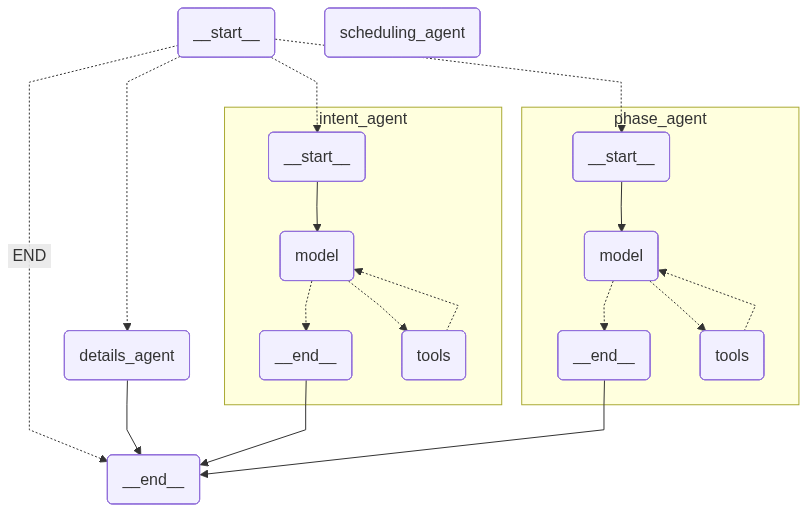
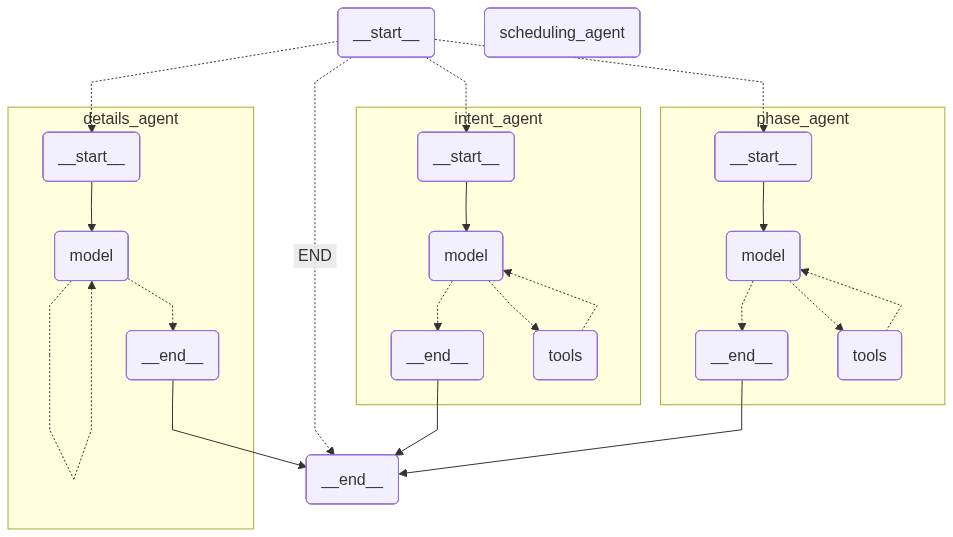
get structured output from details node

diff --git a/src/model.py b/src/model.py
@@ -7,9 +7,9 @@ import uuid
 from pydantic.main import BaseModel
 from langgraph.types import Command, interrupt
 from enum import Enum
-from typing import Sequence, Annotated, TypedDict, Literal
+from typing import Sequence, Annotated, TypedDict, Literal, List
 from dotenv import load_dotenv
-from langchain_core.messages import BaseMessage, HumanMessage, AIMessage
+from langchain_core.messages import BaseMessage, HumanMessage, AIMessage, SystemMessage
 from langchain_openai import ChatOpenAI
 from pydantic import SecretStr
 from langchain_core.prompts import ChatPromptTemplate, MessagesPlaceholder
@@ -86,6 +86,65 @@ class ConstructionIntent(BaseModel):
             summary += f"\nBudget: {self.budget_range}"
         return summary
 
+
+class Dependency(BaseModel):
+    """Represents a task dependency with relationship and lag"""
+
+    previous_task: str = Field(..., description="Name of the previous task")
+    relationship: str = Field(
+        ..., description="Relationship type (e.g., 'FS', 'SS', 'FF', 'SF')"
+    )
+    lag_days: int = Field(default=0, description="Lag time in days")
+
+    @classmethod
+    def from_list(cls, dep_list: List) -> "Dependency":
+        """Create from [previous_task, relationship, lag] format"""
+        return cls(
+            previous_task=dep_list[0],
+            relationship=dep_list[1],
+            lag_days=dep_list[2] if len(dep_list) > 2 else 0,
+        )
+
+
+class Resource(BaseModel):
+    """Represents a required resource"""
+
+    name: str = Field(..., description="Resource name")
+    amount: float = Field(..., description="Required amount/quantity")
+
+    @classmethod
+    def from_list(cls, res_list: List) -> "Resource":
+        """Create from [resource_name, amount] format"""
+        return cls(name=res_list[0], amount=res_list[1])
+
+
+class Task(BaseModel):
+    """Represents a single task in the project schedule"""
+
+    name: str = Field(..., description="Task name")
+    duration_days: int = Field(..., gt=0, description="Duration in days")
+    dependencies: List[List] = Field(
+        default_factory=list,
+        description="List of dependencies as [previous_task, relationship, lag]",
+    )
+    resources: List[List] = Field(
+        default_factory=list, description="List of resources as [resource_name, amount]"
+    )
+
+    def get_dependencies(self) -> List[Dependency]:
+        """Parse dependencies into Dependency objects"""
+        return [Dependency.from_list(dep) for dep in self.dependencies]
+
+    def get_resources(self) -> List[Resource]:
+        """Parse resources into Resource objects"""
+        return [Resource.from_list(res) for res in self.resources]
+
+
+class TaskList(BaseModel):
+    """Collection of tasks for a project phase"""
+
+    tasks: List[Task] = Field(..., description="List of tasks")
+    
 
 class AgenticSchedulerModel:
 
@@ -318,7 +377,7 @@ class AgenticSchedulerModel:
             model=self.llm,
         )
 
-        def phase_node(state: AgentState) -> AgentState | Command:
+        def phase_node (state: AgentState) -> AgentState | Command:
 
             print("\n===== PHASE NODE =====\n")
 
@@ -366,7 +425,7 @@ class AgenticSchedulerModel:
                     phases = tool_call["args"]["phases_list"]
 
                     # Interrupt for Phase Confirmation
-                    user_response = interrupt(f"Do you approve these phases? {phases}")
+                    user_response = interrupt(f"Do you approve these phases?")
 
                     user_response_lower = (
                         user_response.lower().strip() if user_response else ""
@@ -398,50 +457,49 @@ class AgenticSchedulerModel:
             }
 
         # Create Details Agent
-        def get_details_agent_system_message(state: AgentState):
-            phases = state.get("phases", [])
-            current_phase_index = state.get("current_phase_index", 0) or 0
-            current_phase = (
-                phases[current_phase_index]
-                if phases and current_phase_index < len(phases)
-                else "Unknown"
-            )
-
-            return f"""
-            You are a construction scheduling assistant. You are currently detailing the phase: '{current_phase}'.
+        DETAIL_AGENT_SYSTEM_PROMPT = """
+            You are a construction scheduling assistant.
             - Identify the tasks and dependencies and required resources for this phase.
             - Ask the user if you have any vague tasks.
-            - Use 'save_tasks' to save the identified tasks.
-            - Once the user is satisfied with this phase, use the 'complete_current_phase' tool to move to the next phase.
-            - If this is the last phase, use the 'finalize_schedule' tool to complete the workflow.
             """
+        details_agent = create_agent(
+            system_prompt=DETAIL_AGENT_SYSTEM_PROMPT,
+            tools=details_tools,
+            model=self.llm,
+            response_format=TaskList
+        )
 
         def details_node(state: AgentState) -> AgentState | dict:
-            # Create agent with dynamic system message
-            details_agent = create_agent(
-                system_prompt=get_details_agent_system_message(state),
-                tools=details_tools,
-                model=self.llm,
-            )
 
-            result = details_agent.invoke(state)  # type: ignore
+            print("\n===== DETAILS NODE =====\n")
 
-            if isinstance(result, dict) and "messages" in result:
+            sender = state["sender"]
+
+            if sender == "phase_agent":
+                phases = state["phases"]
+                initial_msg = SystemMessage(
+                    content=f"You are currently detailing the major construction phases [{phases}]"
+                )
+                result = details_agent.invoke({"messages": initial_msg})  # type: ignore
+                messages = result["messages"]
+                last_message = messages[-1]
+
+                # TODO - remove print
+                # print(f"\n{result}")
+
+                if hasattr(last_message, "content") and last_message.content:
+                    print(f"\n🤖 Assistant: {last_message.content}")
+
                 return {
-                    "messages": result["messages"],
+                    "messages": [last_message],
+                    "sender": "details_agent",
                     "current_stage": WorkflowStage.DETAILS.value,
                     "phases": state.get("phases", []),
-                    "current_phase_index": state.get("current_phase_index", 0),
+                    "user_intent": state.get("user_intent", ""),
+                    "current_phase_index": 0,
                 }
-            else:
-                return {
-                    "messages": [
-                        HumanMessage(content=str(result), name="details_agent")
-                    ],
-                    "current_stage": WorkflowStage.DETAILS.value,
-                    "phases": state.get("phases", []),
-                    "current_phase_index": state.get("current_phase_index", 0),
-                }
+
+            return state
 
         def scheduling_node(state: AgentState) -> AgentState:
             final_approval = interrupt("Requesting final schedule approval.")
@@ -466,7 +524,7 @@ class AgenticSchedulerModel:
                 "END": END,  # Add option to end directly if needed
             },
         )
-       
+
         workflow.add_edge("scheduling_agent", END)
 
         return workflow.compile(checkpointer=MemorySaver())

diff --git a/src/tools.py b/src/tools.py
@@ -106,18 +106,18 @@ def confirm_phases(phases_list: str) -> list:
 # @tool
 # def save_tasks(tasks: list) -> str:
 #     """
-#     Save the list of tasks and dependencies generated by the agent for the current phase.
-#     Input should be a list of task dictionaries with the following structure:
-#     [
-#         {
-#             "name": "task name",
-#             "duration_days": number,
-#             "dependencies": [
-#                 ["previous_task_name", "relationship_link", "lag_by"]
-#             ],
-#             "resources": [["required_resoure_name", "amount"]]
-#         }
-#     ]
+    # Save the list of tasks and dependencies generated by the agent for the current phase.
+    # Input should be a list of task dictionaries with the following structure:
+    # [
+    #     {
+    #         "name": "task name",
+    #         "duration_days": number,
+    #         "dependencies": [
+    #             ["previous_task_name", "relationship_link", "lag_by"]
+    #         ],
+    #         "resources": [["required_resoure_name", "amount"]]
+    #     }
+    # ]
 
 #     NOTE -
 #     1) A task name in dependency SHOULD EXIST in the tasks list if not change name in dependancy to match it. COMPULSORY.
